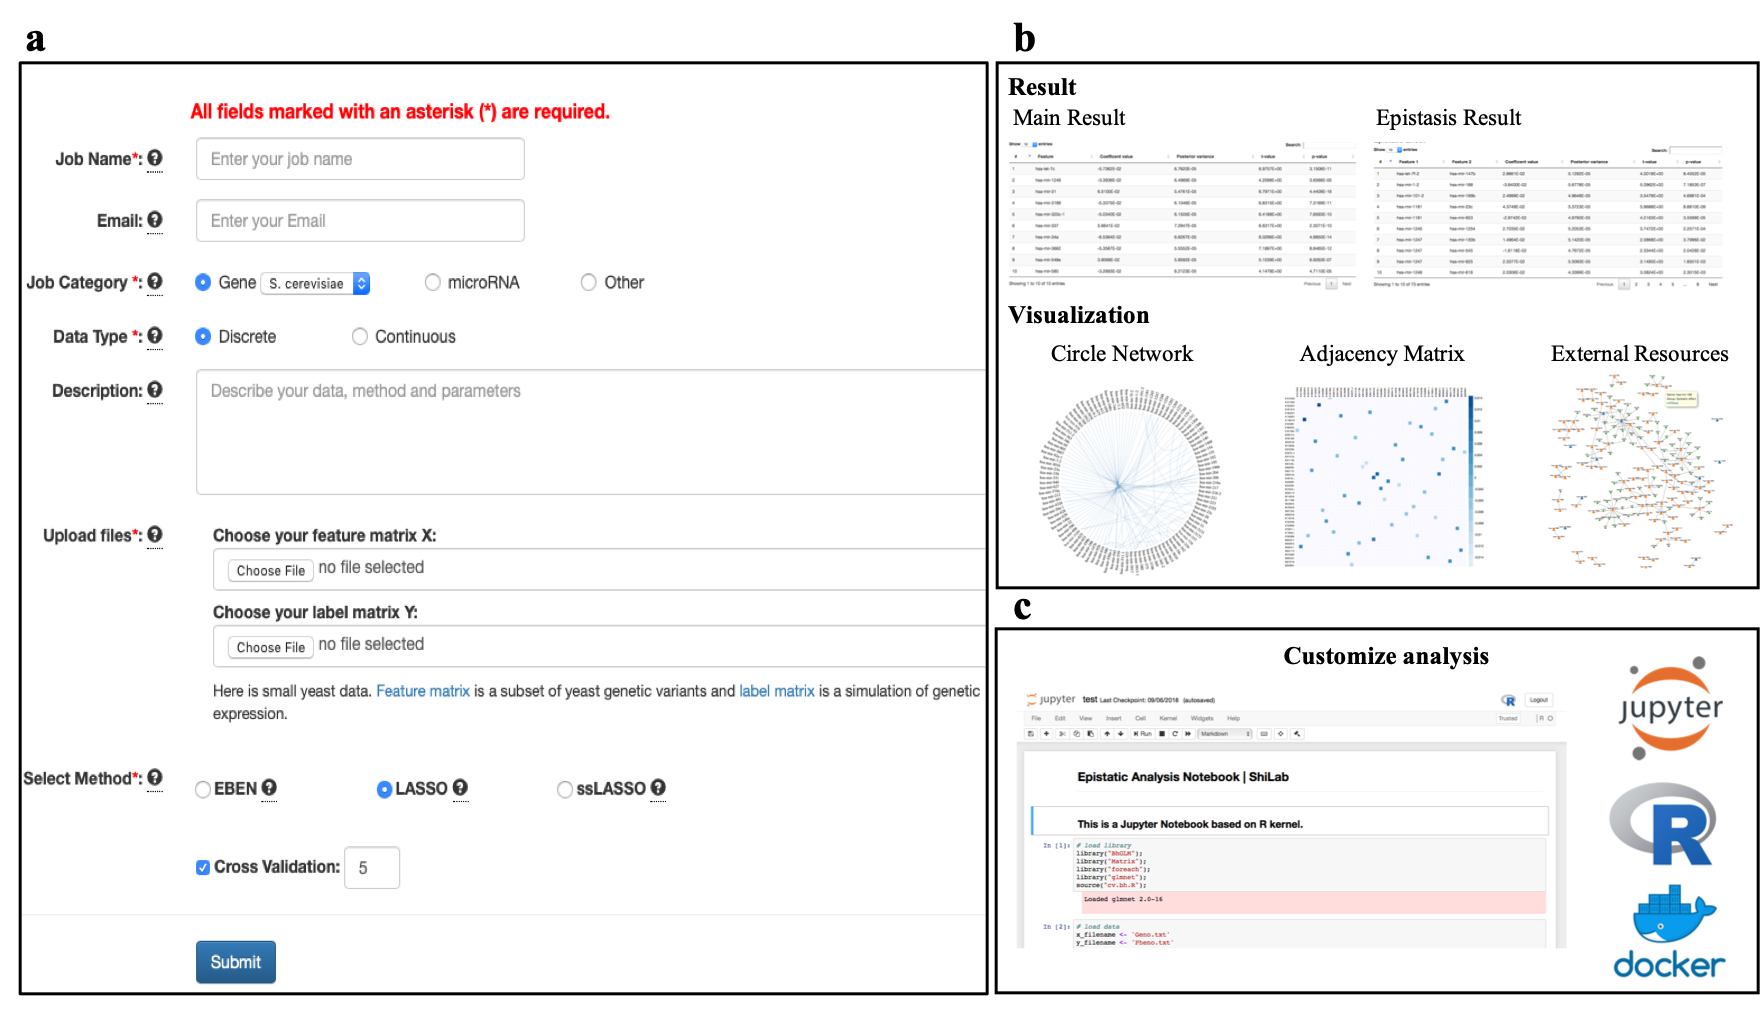
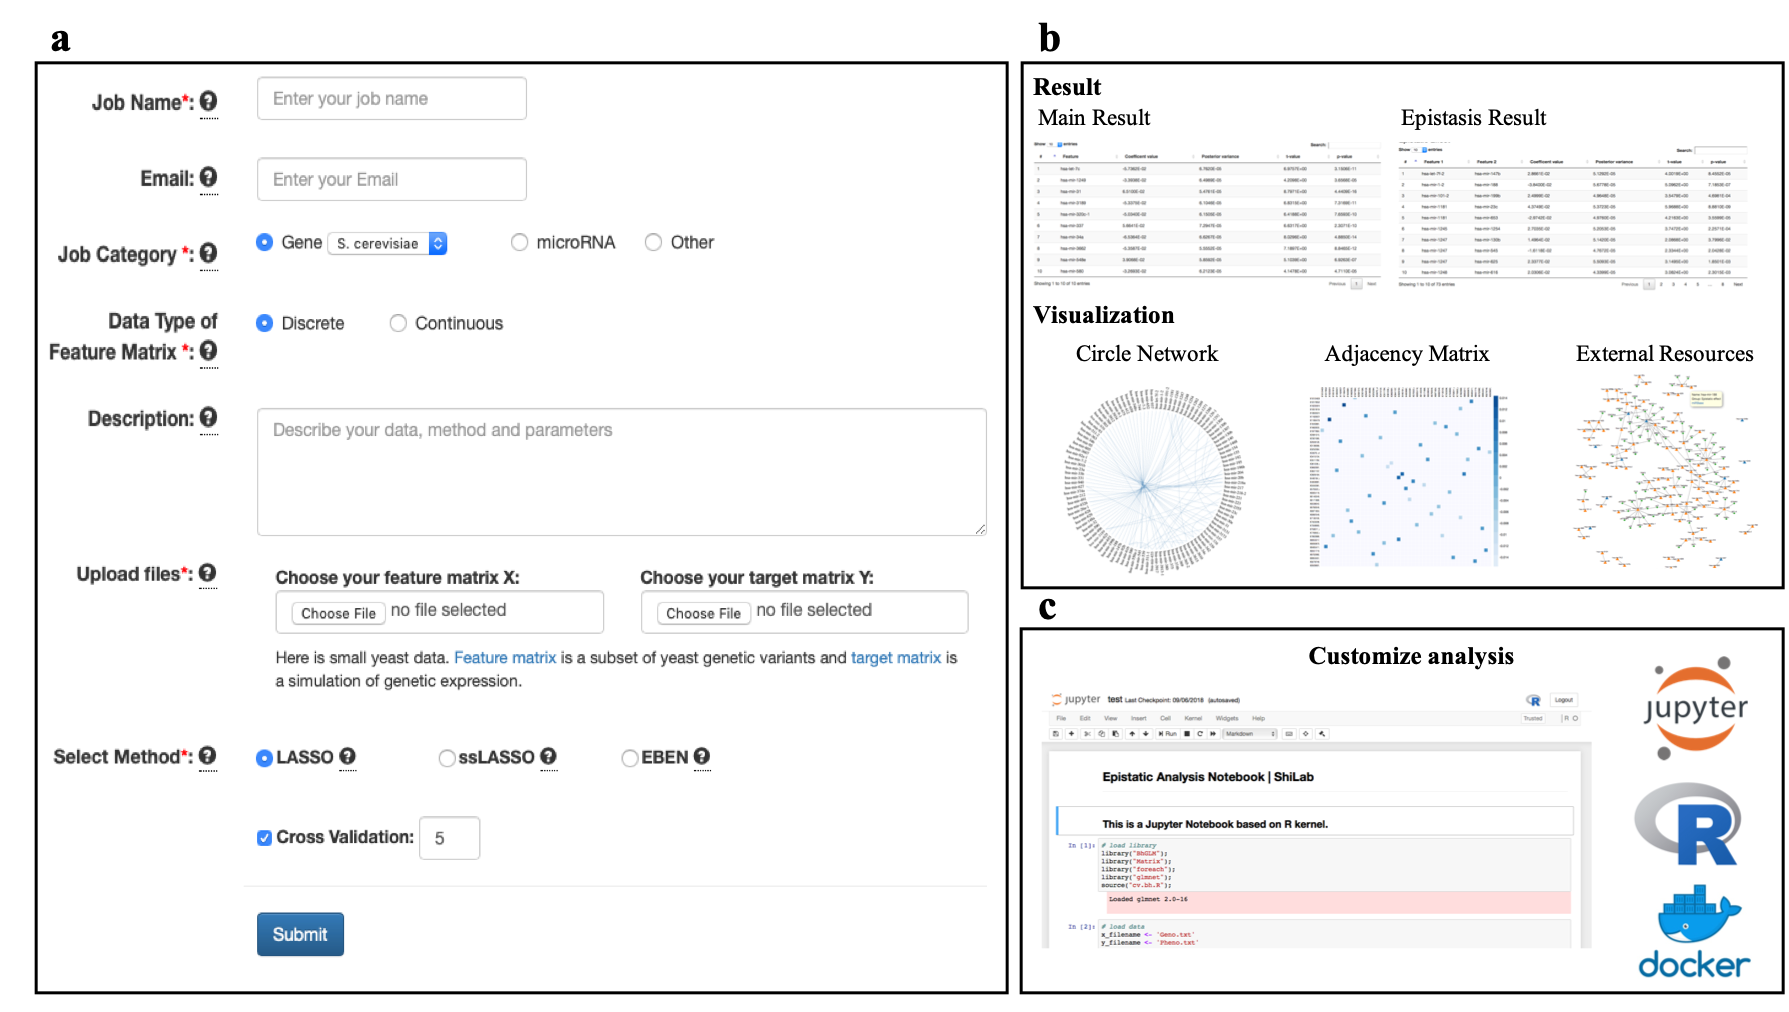
typo

diff --git a/EpiML/templates/webserver.html b/EpiML/templates/webserver.html
@@ -118,7 +118,7 @@
                         </div>
                     </label>
                     <div class="col-sm-10">
-                        <label class="radio-inline col-sm-3">
+                        <label class="radio-inline col-sm-4">
                             <input id="jobcategory" name="jobcategory" type="radio" value="Gene" CHECKED> Gene
                             <select name="species" id="species">
                                 <option value="Human">Human</option>
@@ -201,8 +201,8 @@
                         </div>
                     </label>
 
-                    <div class="row" style="padding: 15px">
-                        <div class=" col-sm-2">
+                    <div class="row col-sm-10" style="padding: 15px">
+                        <div class=" col-sm-3">
                             <input type="radio" id="LASSO" name="method" value="LASSO" checked>
                             <label for="LASSO">LASSO
                                 <div class="question_tooltip"><span class="glyphicon glyphicon-question-sign"></span>
@@ -210,7 +210,7 @@
                                 </div>
                             </label>
                         </div>
-                        <div class=" col-sm-2">
+                        <div class=" col-sm-3">
                             <input type="radio" id="ssLASSO" name="method" value="ssLASSO">
                             <label for="ssLASSO">ssLASSO
                                 <div class="question_tooltip"><span class="glyphicon glyphicon-question-sign"></span>
@@ -218,7 +218,7 @@
                                 </div>
                             </label>
                         </div>
-                        <div class=" col-sm-2">
+                        <div class=" col-sm-3">
                             <input type="radio" id="EBEN" name="method" value="EBEN">
                             <label for="EBEN">EBEN
                                 <div class="question_tooltip"><span class="glyphicon glyphicon-question-sign"></span>

diff --git a/EpiML/templates/index.html b/EpiML/templates/index.html
@@ -11,8 +11,7 @@
                 <div align="center">
                     <img width="30%" style="min-width: 300px"
                          src="{{ url_for('static', filename='img/home/EpiML_logo.png') }}">
-                    <p style="font-size: xx-large;">A web server for epistasis detection and interactive analyses based
-                        on statistical and machine learning methods</p>
+                    <p style="font-size: xx-large;">A web server for epistasis analysis using penalized regression based machine learning methods</p>
                     <p>EpiML can detect significant main effect and epistasis effect by using several statistical and machine
                         learning methods and provide many interactive visualizations to help analyze epistatic
                         relationship. Especially for genotype and microRNA case studies, external resources are
@@ -117,7 +116,7 @@
                 <div class="col-sm-8">
                     <p><strong>Multiple external resources are integrated.</strong> UCSC genome browser links are
                         provided for genetic data. miRBase and miR2Disease database are embedded for microRNA data.
-                        Multiple resources integration will significantly reduce user time for multi-step analysis.
+                        Multiple resources integration will significantly reduce user time for further analysis.
                     </p>
                 </div>
             </div>
